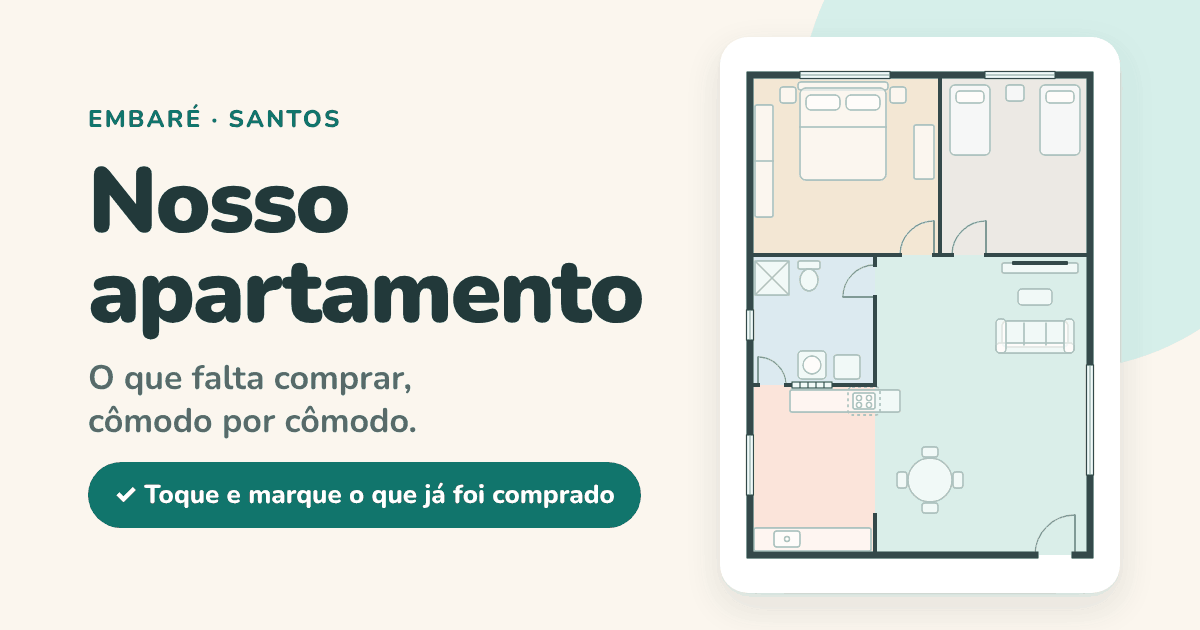
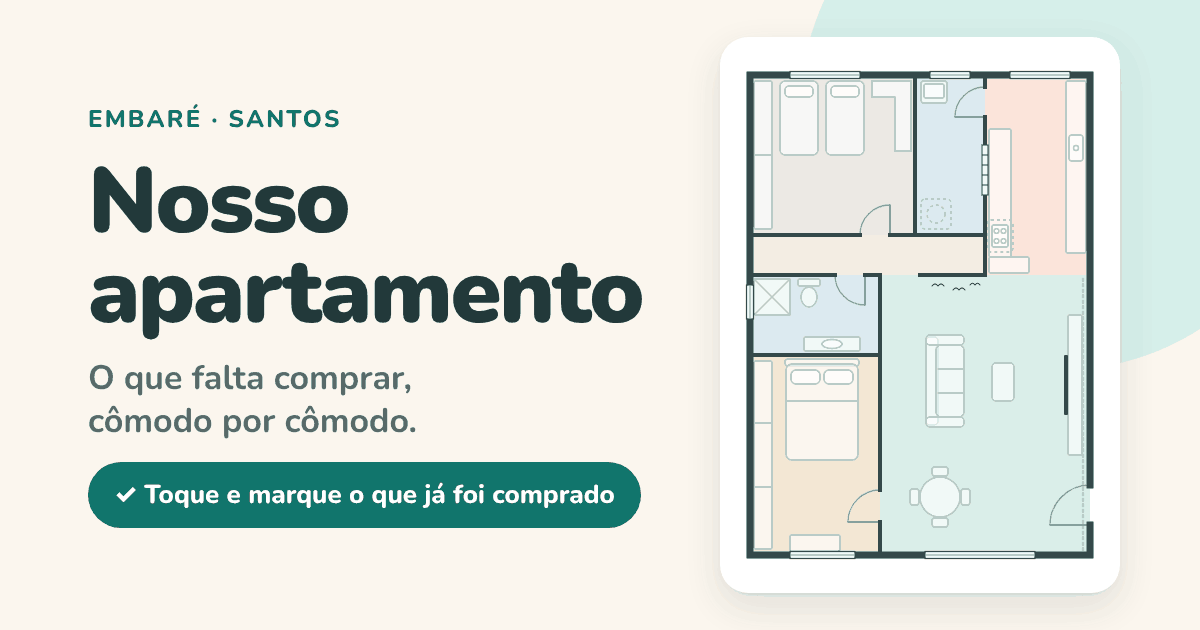
Rebuild floor plan from the listing photos
Layout now follows what the photos show: long living room with the 3D
wall, floating rack and entrance door; galley kitchen with cooktop
counter, cobogó and window; hallway to the kids' room and bathroom;
master bedroom opening onto the living room; service area next to the
kitchen. Each bedroom panel shows its own photos.

Claude-Session: https://claude.ai/code/session_0174zCbENuDzUCQgdMTyMmnT

diff --git a/apartamento-santos/index.html b/apartamento-santos/index.html
@@ -124,15 +124,18 @@ h1{font-size:clamp(34px, 9.5vw, 52px);font-weight:900;letter-spacing:-.025em;lin
 .piso[data-room="casal"]{fill:#F3E7D4}
 .piso[data-room="banho"]{fill:#DCEAF0}
 .piso[data-room="criancas"]{fill:#ECE9E4}
+.piso--corredor{fill:#F3EDE3}
 .piso.is-completo{fill:#E0F2E5}
 .piso.is-hover{fill:#CDEAE3}
 .piso.is-ativo{fill:#BFE5DC}
 .anel{fill:none;stroke:var(--coral);stroke-width:2.5;opacity:0;transition:opacity .2s}
 .anel.is-ativo{opacity:1}
-.moveis rect,.moveis circle,.moveis ellipse{fill:rgba(255,255,255,.62);stroke:var(--movel);stroke-width:1.4}
+.moveis rect,.moveis circle,.moveis ellipse,.moveis polygon{fill:rgba(255,255,255,.62);stroke:var(--movel);stroke-width:1.4}
 .moveis path{fill:none;stroke:var(--movel);stroke-width:1.4;stroke-linecap:round}
 .moveis .tv{fill:var(--parede);stroke:none}
 .moveis .tracejado{fill:none;stroke-dasharray:3 3}
+.moveis .textura{fill:none;stroke:#B3C7C3;stroke-width:2.5;stroke-dasharray:1.5 4;stroke-linecap:round}
+.moveis .passaros{fill:none;stroke:var(--parede);stroke-width:1.2;stroke-linecap:round}
 .cobogo rect{fill:#E6F2F4;stroke:var(--parede);stroke-width:1.2}
 .cobogo path{fill:none;stroke:var(--parede);stroke-width:1}
 .porta{fill:none;stroke:#8FA6A2;stroke-width:1.3}
@@ -160,6 +163,8 @@ h1{font-size:clamp(34px, 9.5vw, 52px);font-weight:900;letter-spacing:-.025em;lin
 .chip-status{font-weight:800;font-size:clamp(10.5px, 3.2cqi, 13.5px);line-height:1.25;color:var(--coral-texto);text-wrap:balance}
 .chip-status.ok{color:var(--verde)}
 .chip-status.cinza{color:var(--cinza-texto)}
+.comodo--mini .chip{padding:4px 7px 5px}
+.comodo--mini .chip-nome{font-size:clamp(10px, 3cqi, 13px);font-weight:800}
 .comodo--pronto .chip{background:rgba(247,245,241,.97)}
 .comodo--pronto .chip-nome{color:var(--cinza-texto)}
 .comodo:hover .chip{transform:translate(-50%,-50%) scale(1.03)}
@@ -403,113 +408,125 @@ h1{font-size:clamp(34px, 9.5vw, 52px);font-weight:900;letter-spacing:-.025em;lin
       <div class="planta" id="planta">
         <svg viewBox="0 0 360 500" aria-hidden="true" focusable="false">
           <g class="pisos">
-            <rect class="piso" data-room="casal" x="10" y="10" width="190" height="180"/>
-            <rect class="piso" data-room="criancas" x="200" y="10" width="150" height="180"/>
-            <rect class="piso" data-room="banho" x="10" y="190" width="125" height="130"/>
-            <rect class="piso" data-room="cozinha" x="10" y="320" width="125" height="170"/>
-            <rect class="piso" data-room="sala" x="135" y="190" width="215" height="300"/>
+            <rect class="piso" data-room="criancas" x="10" y="10" width="165" height="160"/>
+            <rect class="piso" data-room="banho" x="175" y="10" width="70" height="160"/>
+            <rect class="piso" data-room="cozinha" x="245" y="10" width="105" height="200"/>
+            <rect class="piso piso--corredor" x="10" y="170" width="235" height="40"/>
+            <rect class="piso" data-room="banho" x="10" y="210" width="130" height="80"/>
+            <rect class="piso" data-room="casal" x="10" y="290" width="130" height="200"/>
+            <rect class="piso" data-room="sala" x="140" y="210" width="210" height="280"/>
           </g>
 
           <g class="moveis">
-            <!-- quarto do casal -->
-            <rect x="15" y="40" width="18" height="112" rx="2"/>
-            <path d="M15 96 H33"/>
-            <rect x="40" y="22" width="16" height="16" rx="3"/>
-            <rect x="150" y="22" width="16" height="16" rx="3"/>
-            <rect x="58" y="17" width="90" height="8" rx="3"/>
-            <rect x="60" y="23" width="86" height="92" rx="6"/>
-            <rect x="66" y="30" width="34" height="15" rx="5"/>
-            <rect x="106" y="30" width="34" height="15" rx="5"/>
-            <path d="M60 62 H146"/>
-            <rect x="174" y="60" width="20" height="54" rx="2"/>
-            <!-- quarto das crianças -->
-            <rect x="210" y="20" width="40" height="70" rx="5"/>
-            <rect x="216" y="26" width="28" height="12" rx="4"/>
-            <rect x="300" y="20" width="40" height="70" rx="5"/>
-            <rect x="306" y="26" width="28" height="12" rx="4"/>
-            <rect x="266" y="20" width="18" height="16" rx="3"/>
-            <!-- banheiro + área -->
-            <rect x="15" y="196" width="34" height="34" rx="2"/>
-            <path d="M15 196 L49 230 M49 196 L15 230"/>
-            <rect x="58" y="196" width="22" height="8" rx="2"/>
-            <ellipse cx="69" cy="215" rx="9" ry="11"/>
-            <rect x="58" y="286" width="28" height="28" rx="4"/>
-            <circle cx="72" cy="300" r="9"/>
-            <rect x="94" y="290" width="26" height="24" rx="3"/>
-            <!-- cozinha americana: balcão com cooktop virado pra sala, pia do outro lado -->
-            <rect x="50" y="325" width="110" height="22" rx="2"/>
-            <rect x="113" y="328" width="22" height="16" rx="2"/>
-            <circle cx="119" cy="333" r="2.6"/>
-            <circle cx="129" cy="333" r="2.6"/>
-            <circle cx="119" cy="340" r="2.6"/>
-            <circle cx="129" cy="340" r="2.6"/>
-            <rect class="tracejado" x="108" y="322" width="32" height="28" rx="4"/>
-            <rect x="14" y="463" width="117" height="23" rx="2"/>
-            <rect x="34" y="466" width="26" height="16" rx="3"/>
-            <circle cx="47" cy="474" r="2.5"/>
-            <!-- sala -->
-            <rect x="262" y="198" width="76" height="10" rx="2"/>
-            <rect class="tv" x="272" y="196" width="56" height="4" rx="1"/>
-            <rect x="278" y="224" width="34" height="16" rx="4"/>
-            <rect x="262" y="256" width="66" height="26" rx="5"/>
-            <rect x="256" y="278" width="78" height="10" rx="4"/>
-            <rect x="256" y="254" width="10" height="34" rx="4"/>
-            <rect x="324" y="254" width="10" height="34" rx="4"/>
-            <path d="M284 258 V280 M306 258 V280"/>
-            <circle cx="190" cy="415" r="22"/>
-            <rect x="182" y="382" width="16" height="10" rx="3"/>
-            <rect x="182" y="438" width="16" height="10" rx="3"/>
-            <rect x="157" y="407" width="10" height="16" rx="3"/>
-            <rect x="213" y="407" width="10" height="16" rx="3"/>
+            <!-- quarto das crianças: armário cinza, duas camas, escrivaninha em L -->
+            <rect x="14" y="16" width="18" height="148" rx="2"/>
+            <path d="M14 90 H32"/>
+            <rect x="40" y="16" width="38" height="74" rx="5"/>
+            <rect x="45" y="21" width="28" height="11" rx="4"/>
+            <rect x="86" y="16" width="38" height="74" rx="5"/>
+            <rect x="91" y="21" width="28" height="11" rx="4"/>
+            <polygon points="132,16 171,16 171,86 155,86 155,32 132,32"/>
+            <!-- área de serviço: tanque e lugar da lava e seca -->
+            <rect x="181" y="16" width="26" height="22" rx="3"/>
+            <rect x="184" y="19" width="20" height="14" rx="2"/>
+            <rect class="tracejado" x="181" y="134" width="30" height="30" rx="4"/>
+            <circle class="tracejado" cx="196" cy="149" r="9"/>
+            <!-- cozinha em corredor: pia na parede 3D, cooktop e forno do lado do cobogó, balcão pra sala -->
+            <rect x="326" y="16" width="20" height="172" rx="2"/>
+            <rect x="329" y="70" width="14" height="26" rx="3"/>
+            <circle cx="336" cy="83" r="2.5"/>
+            <rect x="249" y="64" width="22" height="128" rx="2"/>
+            <rect x="252" y="160" width="16" height="22" rx="2"/>
+            <circle cx="256.5" cy="166" r="2.4"/>
+            <circle cx="263.5" cy="166" r="2.4"/>
+            <circle cx="256.5" cy="176" r="2.4"/>
+            <circle cx="263.5" cy="176" r="2.4"/>
+            <rect class="tracejado" x="247" y="155" width="26" height="32" rx="4"/>
+            <rect x="249" y="192" width="40" height="16" rx="2"/>
+            <!-- banheiro: box com janela, vaso, gabinete -->
+            <rect x="14" y="214" width="36" height="36" rx="2"/>
+            <path d="M14 214 L50 250 M50 214 L14 250"/>
+            <rect x="58" y="214" width="22" height="7" rx="2"/>
+            <ellipse cx="69" cy="232" rx="8" ry="10"/>
+            <rect x="64" y="272" width="56" height="14" rx="2"/>
+            <ellipse cx="92" cy="279" rx="10" ry="4.5"/>
+            <!-- quarto do casal: armário claro, cama, escrivaninha embaixo da janela -->
+            <rect x="14" y="296" width="18" height="188" rx="2"/>
+            <path d="M14 358 H32 M14 422 H32"/>
+            <rect x="45" y="294" width="74" height="7" rx="3"/>
+            <rect x="46" y="299" width="72" height="96" rx="6"/>
+            <rect x="51" y="305" width="29" height="14" rx="5"/>
+            <rect x="84" y="305" width="29" height="14" rx="5"/>
+            <path d="M46 336 H118"/>
+            <rect x="50" y="470" width="50" height="16" rx="2"/>
+            <!-- sala: parede 3D com rack suspenso, sofá, mesa perto da janela -->
+            <path class="textura" d="M343 214 V486"/>
+            <rect x="328" y="250" width="14" height="140" rx="2"/>
+            <rect class="tv" x="324" y="290" width="4" height="60" rx="1"/>
+            <rect x="186" y="272" width="12" height="88" rx="4"/>
+            <rect x="196" y="280" width="28" height="72" rx="5"/>
+            <rect x="186" y="270" width="38" height="10" rx="4"/>
+            <rect x="186" y="352" width="38" height="10" rx="4"/>
+            <path d="M198 304 H224 M198 328 H224"/>
+            <rect x="252" y="298" width="22" height="38" rx="4"/>
+            <circle cx="200" cy="432" r="20"/>
+            <rect x="192" y="402" width="16" height="9" rx="3"/>
+            <rect x="192" y="453" width="16" height="9" rx="3"/>
+            <rect x="170" y="424" width="9" height="16" rx="3"/>
+            <rect x="221" y="424" width="9" height="16" rx="3"/>
+            <path class="passaros" d="M192 221 q3 -4 6 0 q3 -4 6 0 M213 225 q3 -4 6 0 q3 -4 6 0 M230 220 q2.5 -3.5 5 0 q2.5 -3.5 5 0"/>
           </g>
 
           <g class="portas">
-            <path class="porta" d="M194 156 A34 34 0 0 0 160 190"/>
-            <path class="porta-folha" d="M194 190 V156"/>
-            <path class="porta" d="M246 156 A34 34 0 0 0 212 190"/>
-            <path class="porta-folha" d="M246 190 V156"/>
-            <path class="porta" d="M103 232 A32 32 0 0 1 135 200"/>
-            <path class="porta-folha" d="M135 232 H103"/>
-            <path class="porta" d="M18 292 A28 28 0 0 1 46 320"/>
-            <path class="porta-folha" d="M18 320 V292"/>
-            <path class="porta" d="M335 450 A40 40 0 0 0 295 490"/>
-            <path class="porta-folha" d="M335 490 V450"/>
+            <path class="porta" d="M150 140 A30 30 0 0 0 120 170"/>
+            <path class="porta-folha" d="M150 170 V140"/>
+            <path class="porta" d="M215 52 A30 30 0 0 1 245 22"/>
+            <path class="porta-folha" d="M245 52 H215"/>
+            <path class="porta" d="M125 240 A30 30 0 0 1 95 210"/>
+            <path class="porta-folha" d="M125 210 V240"/>
+            <path class="porta" d="M108 457 A32 32 0 0 1 140 425"/>
+            <path class="porta-folha" d="M140 457 H108"/>
+            <path class="porta" d="M310 460 A40 40 0 0 1 350 420"/>
+            <path class="porta-folha" d="M350 460 H310"/>
           </g>
 
           <g class="paredes">
-            <path class="parede-int" d="M10 190 H160 M194 190 H212 M246 190 H350 M200 10 V190 M135 190 V200 M135 232 V320 M135 450 V490 M10 320 H18 M46 320 H52 M92 320 H135"/>
-            <path class="parede-ext" d="M295 490 H10 V10 H350 V490 H335"/>
+            <path class="parede-int" d="M10 170 H120 M150 170 H245 M175 10 V170 M245 10 V22 M245 52 V80 M245 130 V210 M10 210 H95 M125 210 H140 M180 210 H245 M140 210 V425 M140 457 V490 M10 290 H140"/>
+            <path class="parede-ext" d="M350 420 V10 H10 V490 H350 V460"/>
           </g>
 
           <g class="cobogo">
-            <rect x="52" y="317" width="40" height="6"/>
-            <path d="M60 317 V323 M68 317 V323 M76 317 V323 M84 317 V323"/>
+            <rect x="242" y="80" width="6" height="50"/>
+            <path d="M242 90 H248 M242 100 H248 M242 110 H248 M242 120 H248"/>
           </g>
 
           <g class="janelas">
-            <rect class="janela" x="60" y="6.5" width="90" height="7"/>
-            <path class="janela-vidro" d="M60 10 H150"/>
-            <rect class="janela" x="245" y="6.5" width="70" height="7"/>
-            <path class="janela-vidro" d="M245 10 H315"/>
-            <rect class="janela" x="346.5" y="300" width="7" height="110"/>
-            <path class="janela-vidro" d="M350 300 V410"/>
-            <rect class="janela" x="6.5" y="370" width="7" height="60"/>
-            <path class="janela-vidro" d="M10 370 V430"/>
-            <rect class="janela" x="6.5" y="245" width="7" height="30"/>
-            <path class="janela-vidro" d="M10 245 V275"/>
+            <rect class="janela" x="50" y="6.5" width="70" height="7"/>
+            <path class="janela-vidro" d="M50 10 H120"/>
+            <rect class="janela" x="190" y="6.5" width="40" height="7"/>
+            <path class="janela-vidro" d="M190 10 H230"/>
+            <rect class="janela" x="270" y="6.5" width="60" height="7"/>
+            <path class="janela-vidro" d="M270 10 H330"/>
+            <rect class="janela" x="6.5" y="220" width="7" height="34"/>
+            <path class="janela-vidro" d="M10 220 V254"/>
+            <rect class="janela" x="50" y="486.5" width="65" height="7"/>
+            <path class="janela-vidro" d="M50 490 H115"/>
+            <rect class="janela" x="185" y="486.5" width="110" height="7"/>
+            <path class="janela-vidro" d="M185 490 H295"/>
           </g>
 
           <g class="aneis">
-            <rect class="anel" data-room="casal" x="18" y="18" width="174" height="164" rx="10"/>
-            <rect class="anel" data-room="criancas" x="208" y="18" width="134" height="164" rx="10"/>
-            <rect class="anel" data-room="banho" x="18" y="198" width="109" height="114" rx="10"/>
-            <rect class="anel" data-room="cozinha" x="18" y="328" width="109" height="154" rx="10"/>
-            <rect class="anel" data-room="sala" x="143" y="198" width="199" height="284" rx="10"/>
+            <rect class="anel" data-room="criancas" x="16" y="16" width="153" height="148" rx="10"/>
+            <rect class="anel" data-room="banho" x="181" y="16" width="58" height="148" rx="10"/>
+            <rect class="anel" data-room="cozinha" x="251" y="16" width="93" height="188" rx="10"/>
+            <rect class="anel" data-room="banho" x="16" y="216" width="118" height="68" rx="10"/>
+            <rect class="anel" data-room="casal" x="16" y="296" width="118" height="188" rx="10"/>
+            <rect class="anel" data-room="sala" x="146" y="216" width="198" height="268" rx="10"/>
           </g>
         </svg>
       </div>
 
-      <p class="planta-nota">Desenho ilustrativo, fora de escala.</p>
+      <p class="planta-nota">Planta montada a partir das fotos do anúncio. Medidas aproximadas.</p>
     </section>
 
     <aside class="painel" id="painel" aria-labelledby="painel-titulo">
@@ -617,10 +634,9 @@ var FOTOS = {
   var FOTO_INFO = {
     f01: 'Sala e janela', f02: 'Sala e cozinha americana', f03: 'Rack suspenso e balcão',
     f04: 'Pia e janela da cozinha', f09: 'Cooktop e armários', f05: 'Balcão com cooktop e forno', f06: 'Cozinha vista de dentro',
-    f07: 'Quarto 1 · armário claro', f08: 'Quarto 1 · persiana', f11: 'Quarto 2 · escrivaninha em L', f12: 'Quarto 2 · armário cinza',
+    f07: 'Armário embutido e escrivaninha', f08: 'Janela com persiana', f11: 'Escrivaninha em L e persiana', f12: 'Armário cinza e escrivaninha',
     f10: 'Banheiro'
   };
-  var FOTOS_QUARTOS = ['f07', 'f08', 'f11', 'f12'];
 
   var COMODOS = [
     { id: 'sala', nome: 'Sala', aba: 'Sala', emoji: '🛋', fotos: ['f01', 'f02', 'f03'], itens: [
@@ -647,7 +663,7 @@ var FOTOS = {
       { id: 'utensilios', nome: 'Copos, escorredor, tábua e conchas', emoji: '🥄', min: 300, max: 500, conf: false, url: null },
       { id: 'lixeira', nome: 'Lixeira', emoji: '🗑', min: 50, max: 50, conf: false, url: null }
     ]},
-    { id: 'casal', nome: 'Quarto do casal', aba: 'Casal', emoji: '🛏', fotos: FOTOS_QUARTOS, fotosNota: 'Fotos dos dois quartos.', itens: [
+    { id: 'casal', nome: 'Quarto do casal', aba: 'Casal', emoji: '🛏', fotos: ['f07', 'f08'], itens: [
       { id: 'cama', nome: 'Cama box casal com colchão de molas ensacadas', emoji: '🛏', min: 900, max: 1330, conf: true,
         url: 'https://www.esplanadamoveis.com.br/produtos/cama-box-casal-colchao-molas-ensacadas-real-138x188x65cm-suporta-ate-130kg-por-pessoa-btq59/' },
       { id: 'jogo-cama', nome: 'Jogo de cama casal 4 peças, percal 300 fios', qtd: '2 unidades', emoji: '🛌', min: 172, max: 172, conf: true,
@@ -657,7 +673,7 @@ var FOTOS = {
       { id: 'cortina-casal', nome: 'Cortina blackout', emoji: '🪟', min: 120, max: 120, conf: true,
         url: 'https://casanix.com.br/', lembretes: ['persiana'] }
     ]},
-    { id: 'criancas', nome: 'Quarto das crianças', aba: 'Crianças', emoji: '🧸', pronto: true, fotos: FOTOS_QUARTOS, fotosNota: 'Fotos dos dois quartos.', itens: [
+    { id: 'criancas', nome: 'Quarto das crianças', aba: 'Crianças', emoji: '🧸', pronto: true, fotos: ['f11', 'f12'], itens: [
       { id: 'cortina-criancas', nome: 'Cortina blackout', emoji: '🪟', min: 120, max: 120, conf: true,
         url: 'https://casanix.com.br/', lembretes: ['persiana'] }
     ]},
@@ -675,11 +691,12 @@ var FOTOS = {
 
   /* Posição de cada cômodo na planta (unidades do viewBox 360 × 500) e onde fica a etiqueta */
   var PLANTA = { w: 360, h: 500, comodos: {
-    casal:    { x: 10,  y: 10,  w: 190, h: 180, lx: 100, ly: 150, rotulo: 'Quarto do casal' },
-    criancas: { x: 200, y: 10,  w: 150, h: 180, lx: 275, ly: 128, rotulo: 'Quarto das crianças' },
-    banho:    { x: 10,  y: 190, w: 125, h: 130, lx: 72,  ly: 258, rotulo: 'Banheiro + área' },
-    cozinha:  { x: 10,  y: 320, w: 125, h: 170, lx: 72,  ly: 398, rotulo: 'Cozinha' },
-    sala:     { x: 135, y: 190, w: 215, h: 300, lx: 248, ly: 342, rotulo: 'Sala' }
+    criancas: [{ x: 10,  y: 10,  w: 165, h: 160, lx: 92,  ly: 128, rotulo: 'Quarto das crianças' }],
+    cozinha:  [{ x: 245, y: 10,  w: 105, h: 200, lx: 298, ly: 112, rotulo: 'Cozinha' }],
+    banho:    [{ x: 10,  y: 210, w: 130, h: 80,  lx: 75,  ly: 251, rotulo: 'Banheiro + área' },
+               { x: 175, y: 10,  w: 70,  h: 160, lx: 210, ly: 96,  rotulo: 'Área de serviço', emoji: '🧺', mini: true }],
+    casal:    [{ x: 10,  y: 290, w: 130, h: 200, lx: 76,  ly: 432, rotulo: 'Quarto do casal' }],
+    sala:     [{ x: 140, y: 210, w: 210, h: 280, lx: 268, ly: 392, rotulo: 'Sala' }]
   }};
 
   var JA_TEM = [
@@ -761,28 +778,29 @@ var FOTOS = {
   function pct(v, total) { return (v / total * 100) + '%'; }
   function montarPlanta() {
     COMODOS.forEach(function (cm) {
-      var g = PLANTA.comodos[cm.id];
-      var b = document.createElement('button');
-      b.type = 'button';
-      b.className = 'comodo' + (cm.pronto ? ' comodo--pronto' : '');
-      b.dataset.room = cm.id;
-      b.style.left = pct(g.x, PLANTA.w);
-      b.style.top = pct(g.y, PLANTA.h);
-      b.style.width = pct(g.w, PLANTA.w);
-      b.style.height = pct(g.h, PLANTA.h);
-      b.innerHTML = '<span class="chip" style="left:' + pct(g.lx - g.x, g.w) + ';top:' + pct(g.ly - g.y, g.h) + '">' +
-        '<span class="chip-nome">' + cm.emoji + ' ' + g.rotulo + '</span><span class="chip-status-wrap"></span></span>';
-      b.addEventListener('click', function () { selecionar(cm.id, true, b); });
-      b.addEventListener('mouseenter', function () { piso(cm.id).classList.add('is-hover'); });
-      b.addEventListener('mouseleave', function () { piso(cm.id).classList.remove('is-hover'); });
-      elPlanta.appendChild(b);
+      PLANTA.comodos[cm.id].forEach(function (g) {
+        var b = document.createElement('button');
+        b.type = 'button';
+        b.className = 'comodo' + (cm.pronto ? ' comodo--pronto' : '') + (g.mini ? ' comodo--mini' : '');
+        b.dataset.room = cm.id;
+        b.style.left = pct(g.x, PLANTA.w);
+        b.style.top = pct(g.y, PLANTA.h);
+        b.style.width = pct(g.w, PLANTA.w);
+        b.style.height = pct(g.h, PLANTA.h);
+        b.innerHTML = '<span class="chip" style="left:' + pct(g.lx - g.x, g.w) + ';top:' + pct(g.ly - g.y, g.h) + '">' +
+          '<span class="chip-nome">' + (g.emoji || cm.emoji) + ' ' + g.rotulo + '</span>' +
+          (g.mini ? '' : '<span class="chip-status-wrap"></span>') + '</span>';
+        b.addEventListener('click', function () { selecionar(cm.id, true, b); });
+        b.addEventListener('mouseenter', function () { pisos(cm.id).forEach(function (el) { el.classList.add('is-hover'); }); });
+        b.addEventListener('mouseleave', function () { pisos(cm.id).forEach(function (el) { el.classList.remove('is-hover'); }); });
+        elPlanta.appendChild(b);
+      });
     });
   }
-  function piso(id) { return elPlanta.querySelector('.piso[data-room="' + id + '"]'); }
+  function pisos(id) { return elPlanta.querySelectorAll('.piso[data-room="' + id + '"]'); }
   function renderPlanta() {
     COMODOS.forEach(function (cm) {
       var c = contas(cm.itens), falta = c.total - c.feitos;
-      var b = elPlanta.querySelector('.comodo[data-room="' + cm.id + '"]');
       var status, rotulo;
       if (cm.pronto) {
         status = '<span class="chip-status cinza">Já está tudo pronto aqui</span>' +
@@ -795,9 +813,12 @@ var FOTOS = {
         status = '<span class="chip-status">' + faltamTexto(falta) + '</span>';
         rotulo = cm.nome + ': ' + faltamTexto(falta).toLowerCase();
       }
-      b.querySelector('.chip-status-wrap').outerHTML = '<span class="chip-status-wrap" style="display:contents">' + status + '</span>';
-      b.setAttribute('aria-label', rotulo);
-      piso(cm.id).classList.toggle('is-completo', falta === 0 && !cm.pronto);
+      elPlanta.querySelectorAll('.comodo[data-room="' + cm.id + '"]').forEach(function (b) {
+        var wrap = b.querySelector('.chip-status-wrap');
+        if (wrap) wrap.outerHTML = '<span class="chip-status-wrap" style="display:contents">' + status + '</span>';
+        b.setAttribute('aria-label', rotulo);
+      });
+      pisos(cm.id).forEach(function (el) { el.classList.toggle('is-completo', falta === 0 && !cm.pronto); });
     });
   }
   function marcarAtivo() {
